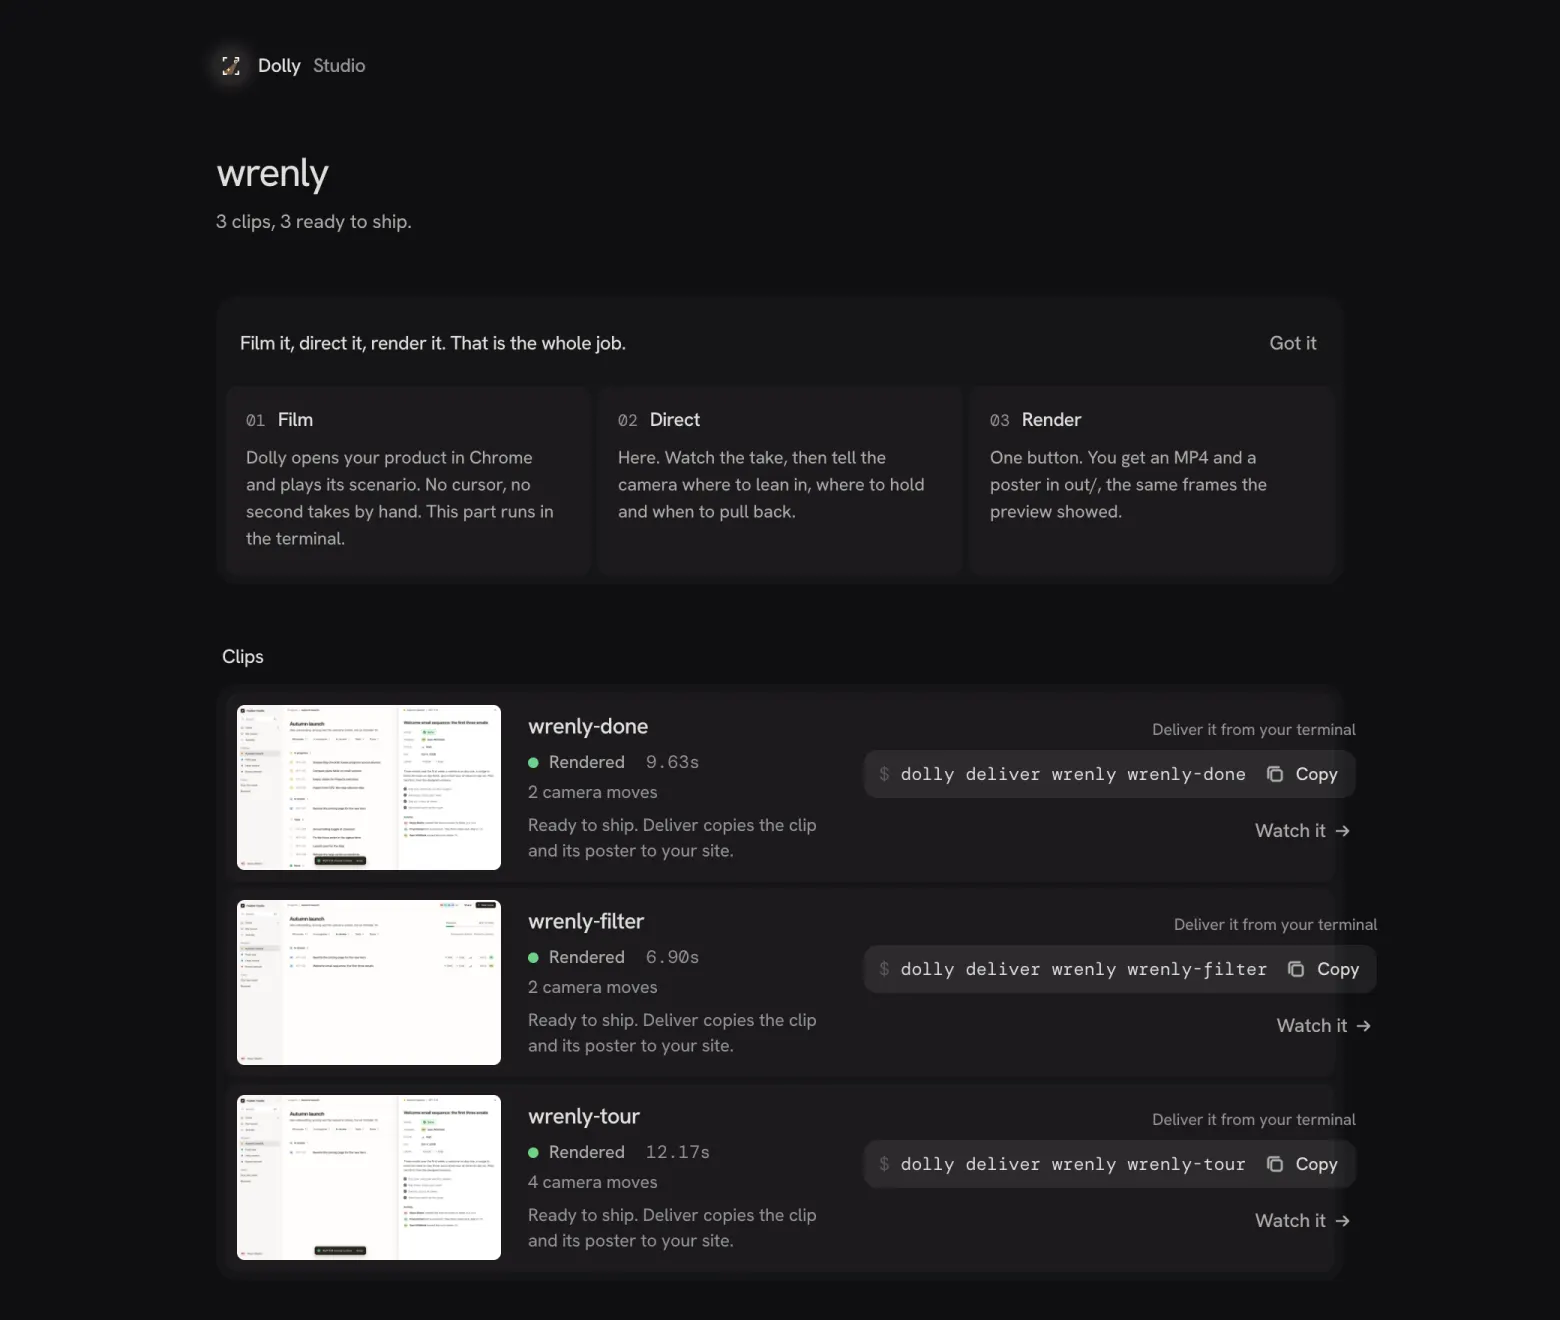
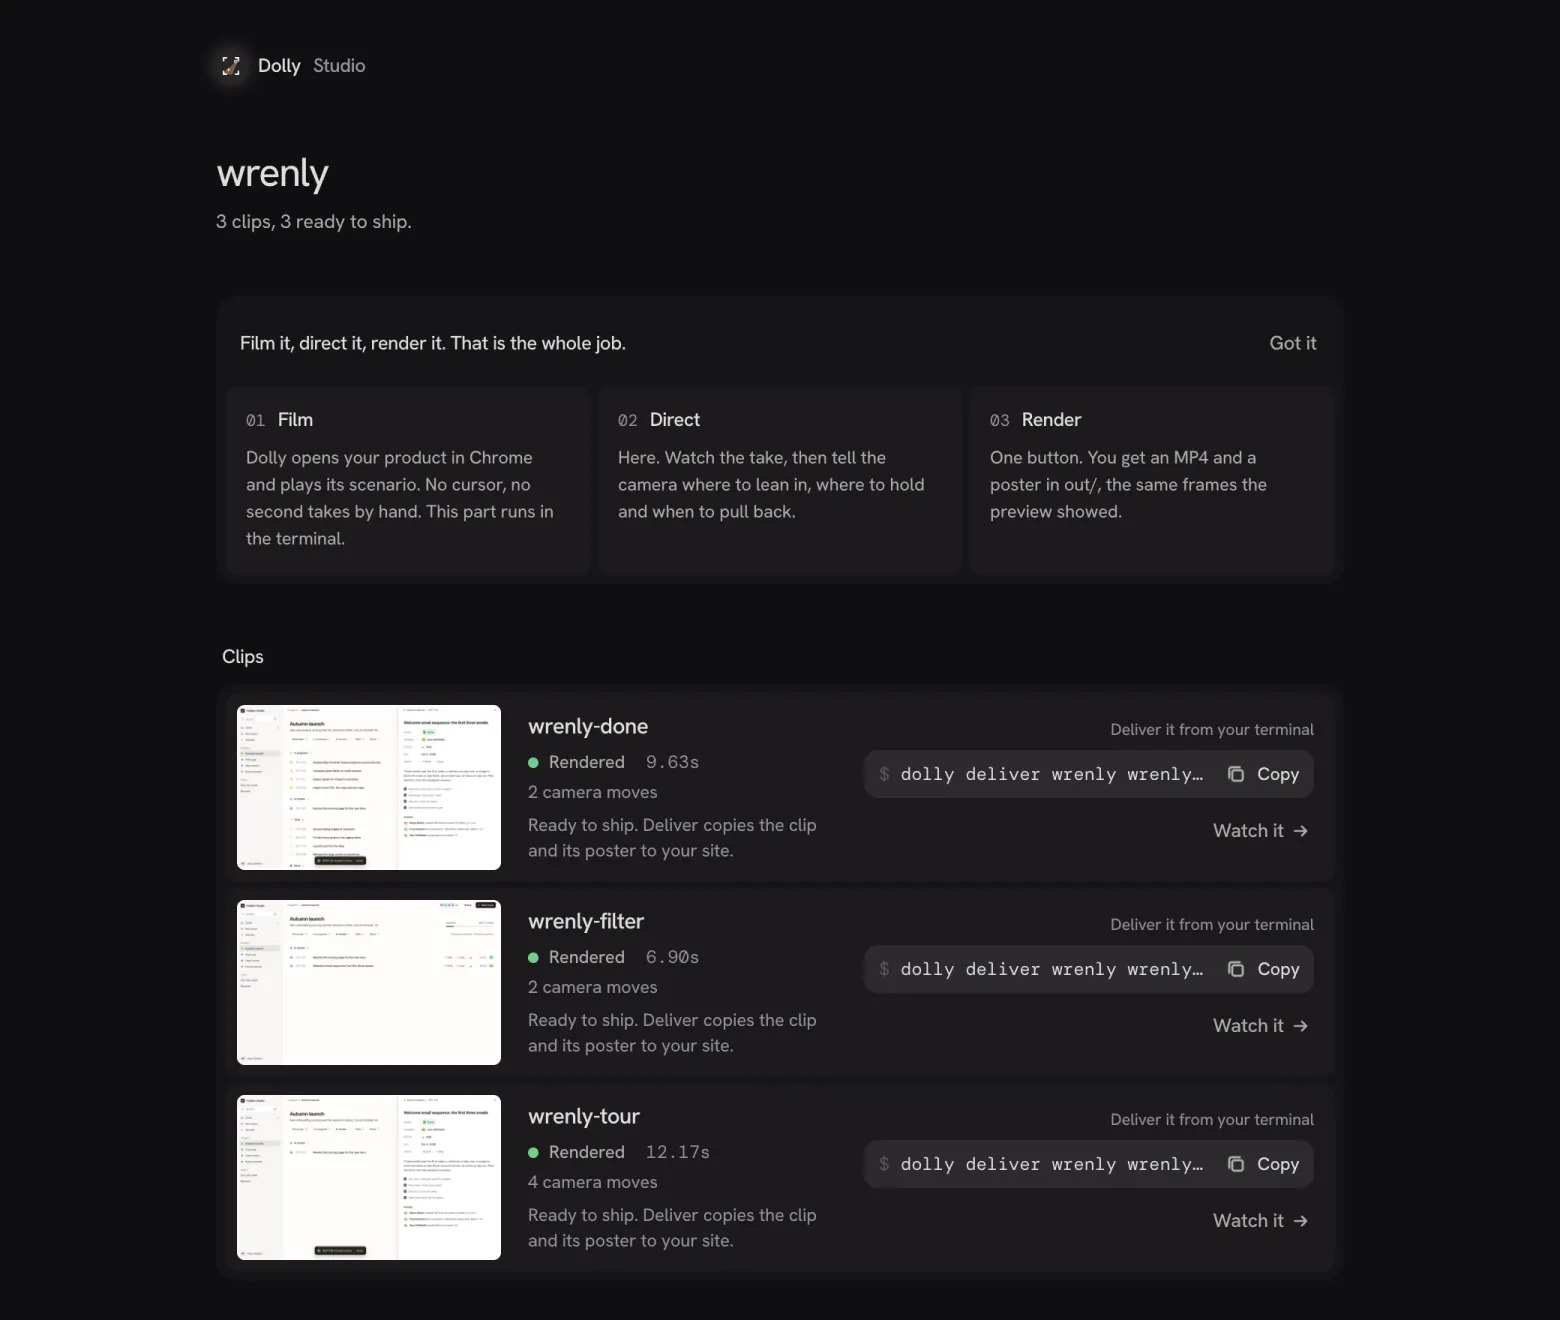
Let a long command shrink inside its clip row, and retake the Studio's home for the site

diff --git a/studio/src/styles/studio.css b/studio/src/styles/studio.css
@@ -107,7 +107,8 @@ h2 { font-size: var(--text-l); font-weight: 500; line-height: 1.25; letter-spaci
 
 /* ── A command to copy ── */
 
-.cmd { display: inline-flex; align-items: center; gap: 2px; max-width: 100%; height: 32px; padding: 0 2px 0 10px; border-radius: var(--radius); background: var(--fill); }
+/* min-width: 0 lets a grid cell shrink the command below its full text, which min-width: auto would otherwise insist on. */
+.cmd { display: inline-flex; align-items: center; gap: 2px; min-width: 0; max-width: 100%; height: 32px; padding: 0 2px 0 10px; border-radius: var(--radius); background: var(--fill); }
 .cmd code { min-width: 0; overflow: hidden; text-overflow: ellipsis; white-space: nowrap; color: var(--text-1); user-select: all; }
 .cmd code::before { content: "$ "; color: var(--text-4); user-select: none; }
 .cmd .btn { height: 28px; min-width: 64px; background: transparent; font-size: var(--text-s); }
